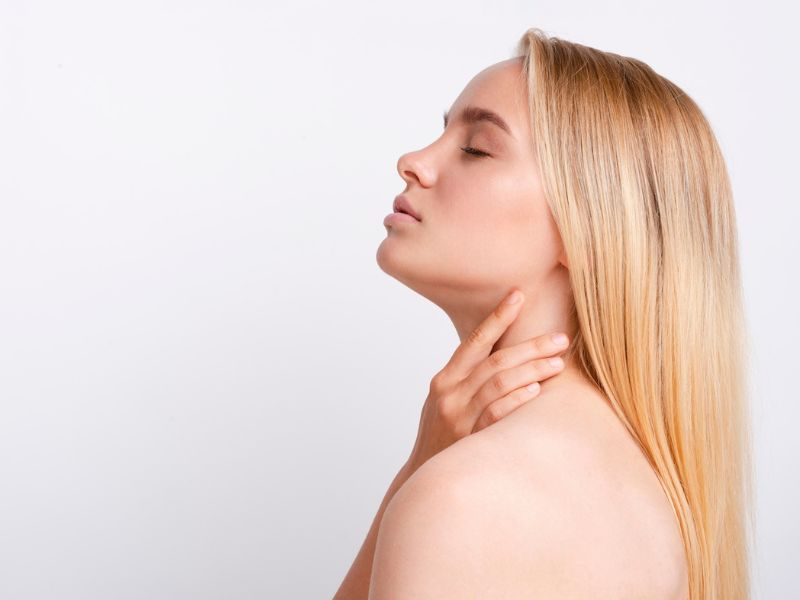
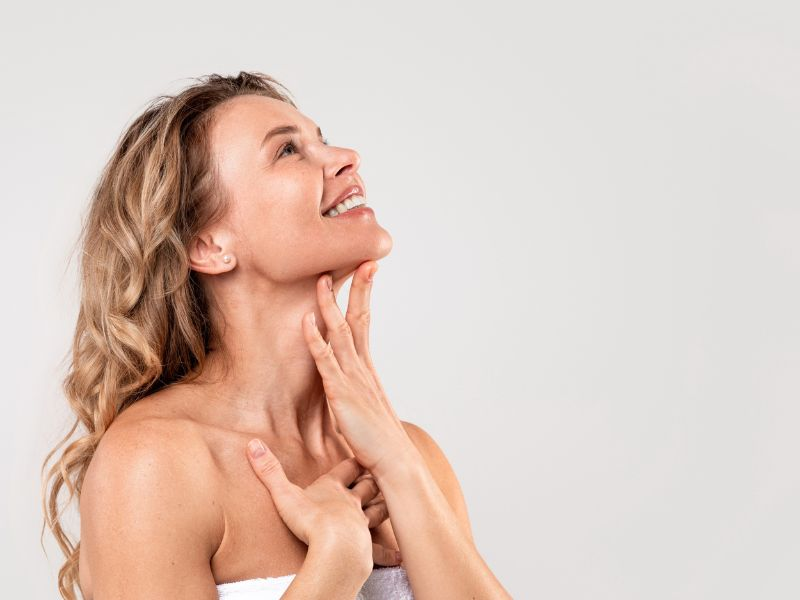
images changed phase 01

diff --git a/assets/css/home.css b/assets/css/home.css
@@ -4,6 +4,7 @@
 	background-image: url(../images/carousal-bg.jpg);
 	background-repeat: no-repeat;
 	background-attachment: fixed;
+	background-position: center;
 	height: 100vh;
 	min-height: 800px;
 }
@@ -169,6 +170,10 @@
     background: #fff;
     box-shadow: 0 3px 6px 0 rgba(0, 0, 0, .16);
 	margin-right: 10px;
+}
+
+.lead2{
+	color: #ffffff;
 }
 
 /* Custom styles for less than 1400px screen */

diff --git a/application/views/pages/index.php b/application/views/pages/index.php
@@ -47,17 +47,31 @@
       <div id="overlay-carousal" class="carousel slide">
         <div class="carousel-inner">
           <div class="carousel-item active">
-            <img src="<?php echo base_url('assets/images/h1-img-8.jpg'); ?>" class="d-block"
+            <img src="<?php echo base_url('assets/images/carousal-overlay-01.jpg'); ?>" class="d-block"
               alt="dentist is checking a petient">
             <div class="carousal-bottom-text d-block">
-              <p>Impressive Smile and Radiant Skin</p>
+              <p>Impressive Radiant Skin</p>
             </div>
           </div>
           <div class="carousel-item">
-            <img src="<?php echo base_url('assets/images/h1-img-7.jpg'); ?>" class="d-block"
+            <img src="<?php echo base_url('assets/images/carousal-overlay-02.jpg'); ?>" class="d-block"
               alt="woman with a tooth brush">
             <div class="carousal-bottom-text d-block">
-              <p><b style="font-size:18px">Tooth Cleaning</b> Beautiful smile</p>
+              <p>Advanced Skin Treatments</p>
+            </div>
+          </div>
+          <div class="carousel-item">
+            <img src="<?php echo base_url('assets/images/carousal-overlay-03.jpg'); ?>" class="d-block"
+              alt="woman with a tooth brush">
+            <div class="carousal-bottom-text d-block">
+              <p>Confident Braces Journey</p>
+            </div>
+          </div>
+          <div class="carousel-item">
+            <img src="<?php echo base_url('assets/images/carousal-overlay-04.jpg'); ?>" class="d-block"
+              alt="woman with a tooth brush">
+            <div class="carousal-bottom-text d-block">
+              <p>Healthy, Impressive Smile</p>
             </div>
           </div>
           <button class="overlay-carousel-control-prev" type="button" data-bs-target="#overlay-carousal"
@@ -180,7 +194,7 @@
     <section class="parallax-section">
       <div class="overlay-text">
         <h1 class="display-4">Boston Med Care</h1>
-        <p class="lead">A honorable past, a creative present, a bright future.</p>
+        <p class="lead2">A honorable past, a creative present, a bright future.</p>
       </div>
     </section>
 
@@ -189,8 +203,7 @@
         <div class="col-lg-6 col-md-12">
           <h4>Get Appointment</h4>
           <h5 class="display-4">Contact Us Now</h5>
-          <p>Lorem ipsum dolor sit amet, consectetur adipiscing elit, sed do eiusmod tempor incididunt ut labore et
-            dolore magna aliqua.</p>
+          <p>Experience expert dental, dermatology, plastic surgery, and hair treatment services tailored to your needs.</p>
           <div class="contact-info">
             <div class="d-flex align-items-center py-2">
               <i class="fas fa-phone-alt me-3 contact-icon"></i>
@@ -202,7 +215,7 @@
             </div>
             <div class="d-flex align-items-center py-2">
               <i class="fas fa-map-marker-alt me-3 contact-icon"></i>
-              <span>حي, Al Andalus, الملك سعود ابن عبدالعزيز سعود, Al Khobar 34437, Saudi Arabia</span>
+              <span> Al Khobar, Andalusia, King Saud AbdulAziz Road, Saudi Arabia</span>
             </div>
           </div>
         </div>
